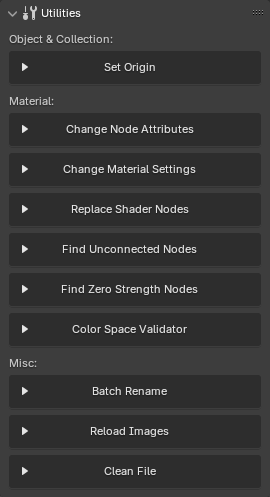
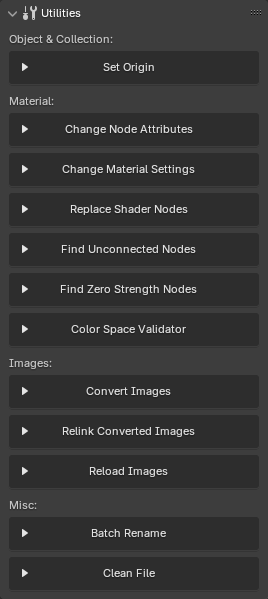
1.2.2

diff --git a/docs/preferences.md b/docs/preferences.md
@@ -35,7 +35,9 @@ To access BatchGenie's Preferences, click on the :blender_icon_preferences:icon 
 
         ![Minimize Nodes Example](images/preferences_minimize_example.png)
 
- <div style="clear:both"></div>
+  <div style="clear:both"></div>
+
+  - **Use Extended Formats**: Enables support for additional image file types when importing textures. By default, BatchGenie looks for `Png`, `Jpg`, `Jpeg`, `Tga`, `Webp`, `Exr`, `Tif`, `Tiff`, and `Bmp`. Enabling this setting expands the search to include `Sgi`, `Rgb`, `Bw`, `Jp2`, `J2c`, `Cin`, `Dpx`, and `Hdr`. This option is recommended only if you plan to import textures in these less common formats. For more information on supported formats, see the [Blender documentation](https://docs.blender.org/manual/en/latest/files/media/image_formats.html){ target="_blank" }.
 
   <h5>Material Name Settings</h5>
 
@@ -117,5 +119,5 @@ To access BatchGenie's Preferences, click on the :blender_icon_preferences:icon 
 
 <h4 style="margin-bottom:-0.5em;">Troubleshooting</h4>
 
-- **Light Setup Thumbnails**: Generate thumbnails for the built-in HDR images used as Light Setups. This option is useful if you've added HDRIs to Blender (as explained [here](render.md#faq)) but they are not yet visible and you want to avoid restarting Blender, as thumbnails are generated upon startup
+- **Light Setup Thumbnails**: Generate thumbnails for the built-in HDR images used as Light Setups. This option is useful if you've added HDRIs to Blender (as explained [here](render.md#faq)) but they are not yet visible and you want to avoid restarting Blender, as thumbnails are generated upon startup.
 - **Debug To Console**: Outputs debug information to the console, useful for troubleshooting. To view the console, go to `Window > Toggle System Console` (Windows) or through the system console if you're using Linux (requires starting Blender from the console).

diff --git a/docs/changelog.md b/docs/changelog.md
@@ -12,6 +12,15 @@ Here, you can find a list of all updates, enhancements, and bug fixes made to Ba
 
 <div class="changelog" markdown>
 
+### 1.2.2 <small>2024-12-10</small>
+
+- **Improved functionality**:
+    - **`Importing Textures`**: Added the `Use Extended Formats` option to support additional image formats when importing textures, allowing BatchGenie to accept all formats supported by Blender.
+- **Bugfix**:
+    - **`Importing Textures`**: Fixed an issue where texture sets with certain naming schemes could not be imported from the selected root folder.
+
+---
+
 ### 1.2.1 <small>2024-12-08</small>
 
 - **New functionality**:
@@ -19,6 +28,7 @@ Here, you can find a list of all updates, enhancements, and bug fixes made to Ba
     - **New Utility: `Relink Converted Images`**: This utility helps you update Blender's links to images that have been converted to a different file format. [More info](utilities.md#relink-converted-images)
 - **Misc**:
     - **Dry Run** Introduced for the two new utilities above. Simulate the batch process without modifying anything, previewing the actions in the console. Coming soon to other utilities.
+
 ---
 
 ### 1.2.0 <small>2024-11-29</small>

diff --git a/docs/import.md b/docs/import.md
@@ -244,7 +244,7 @@ The `Blend Files` option allows you to import objects, collections, and material
 
 `What image formats are supported?`
 
-:   Currently supported formats include `bmp, png, jpg, jpeg, tga, exr, tif, tiff, webp`. Blender supports additional exotic formats, which you can find [here](https://docs.blender.org/manual/en/latest/files/media/image_formats.html){ target="_blank" }. These should work as well, but they are currently filtered out because I have been unable to test them since they are very uncommon formats. If you need support for these formats, please let me know.
+:   All image formats supported by Blender are supported by BatchGenie. If you need to import textures in less common formats, check the [Use Extended Formats](preferences.md#import) option in the Preferences.
 
 ### Blend File Import related
 

diff --git a/docs/utilities.md b/docs/utilities.md
@@ -735,7 +735,8 @@ This utility allows you to export detailed information about Assets from the Ass
 - Specify the file name and save location in the file browser.
 - The generated Excel file will contain the details of the selected Assets, organized into columns such as name, type, and metadata.
 
-
+!!! abstract  "Example"
+    ![Export Asset Details to Excel Example](images/utility_export-asset-details-to-excel.png){ .img-box .on-glb }
 
 <div style="clear:both"></div>
 
